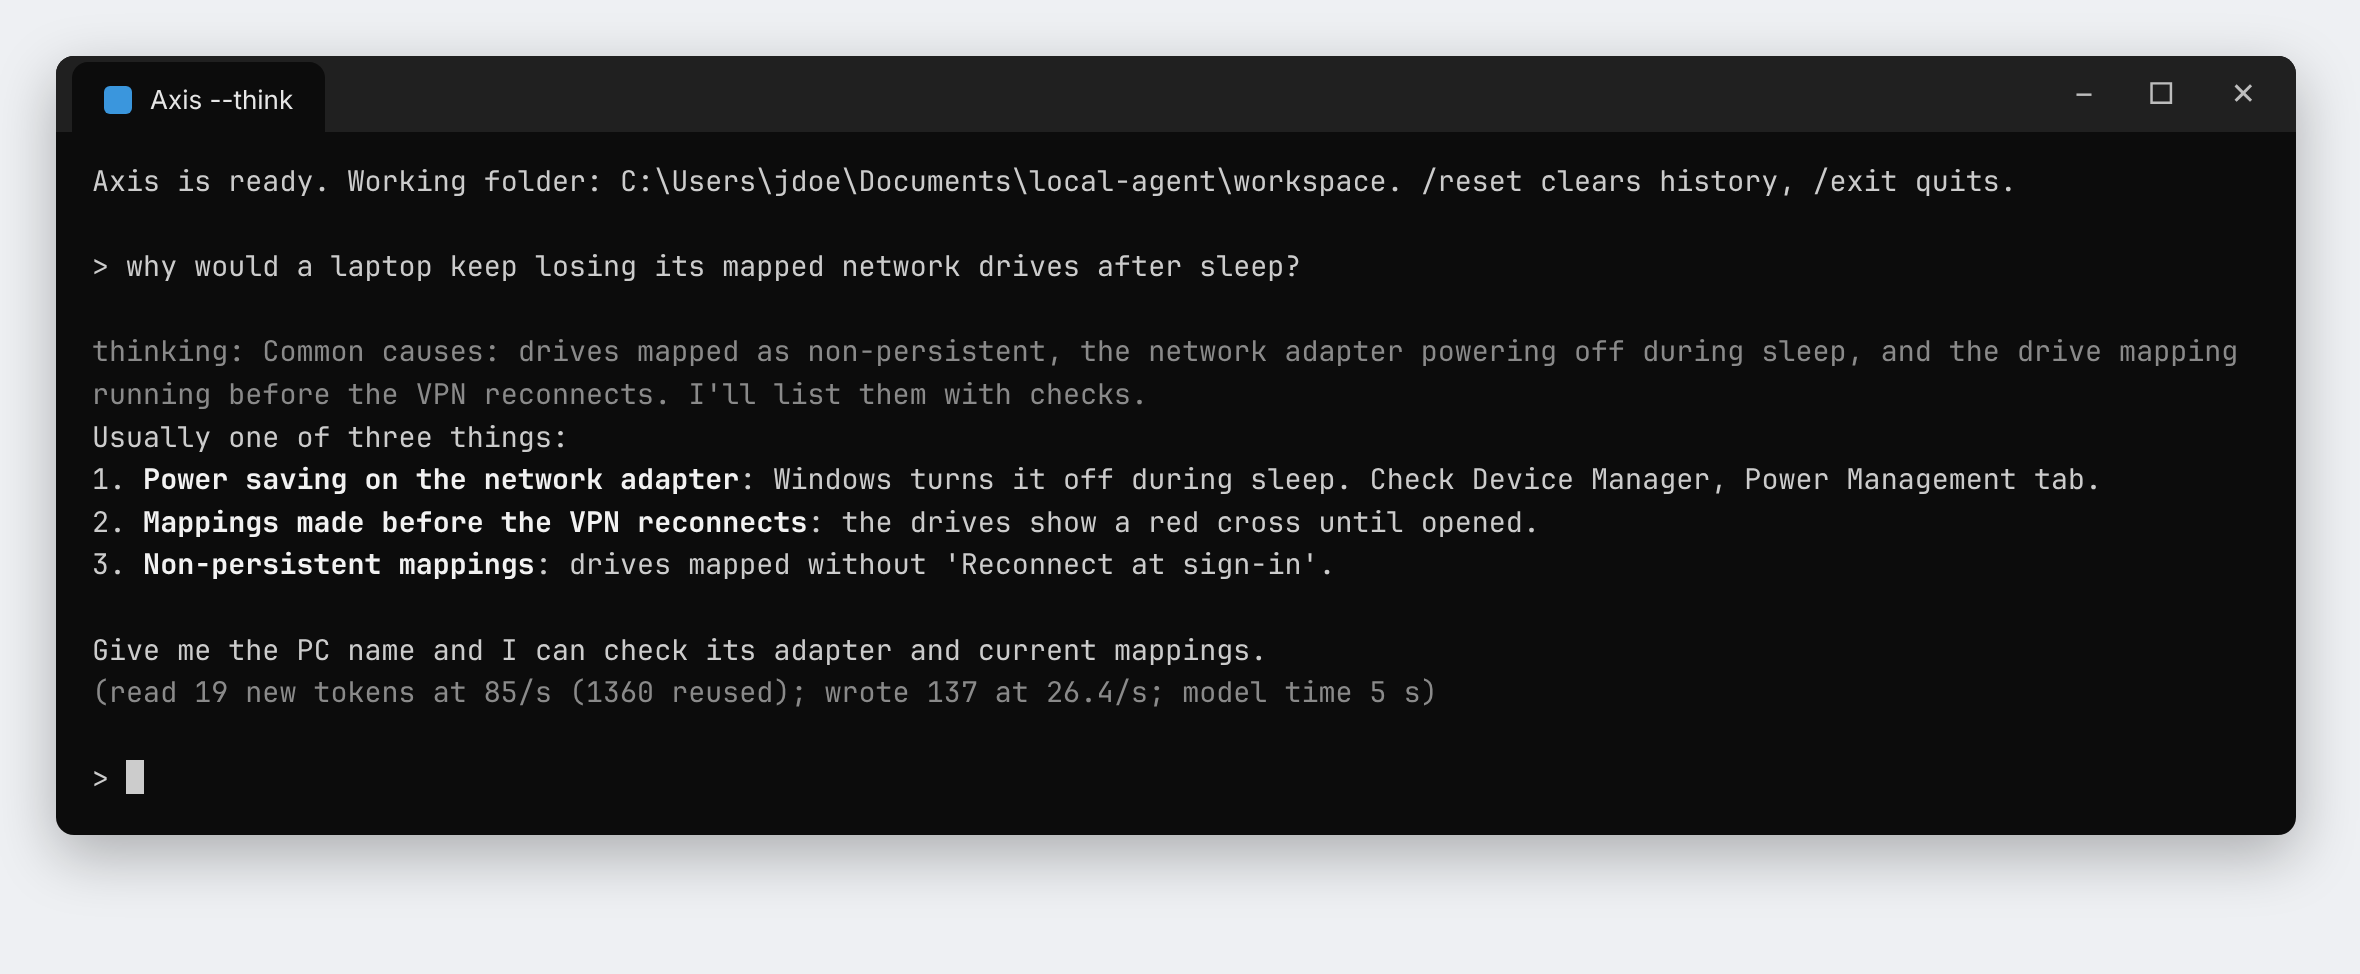
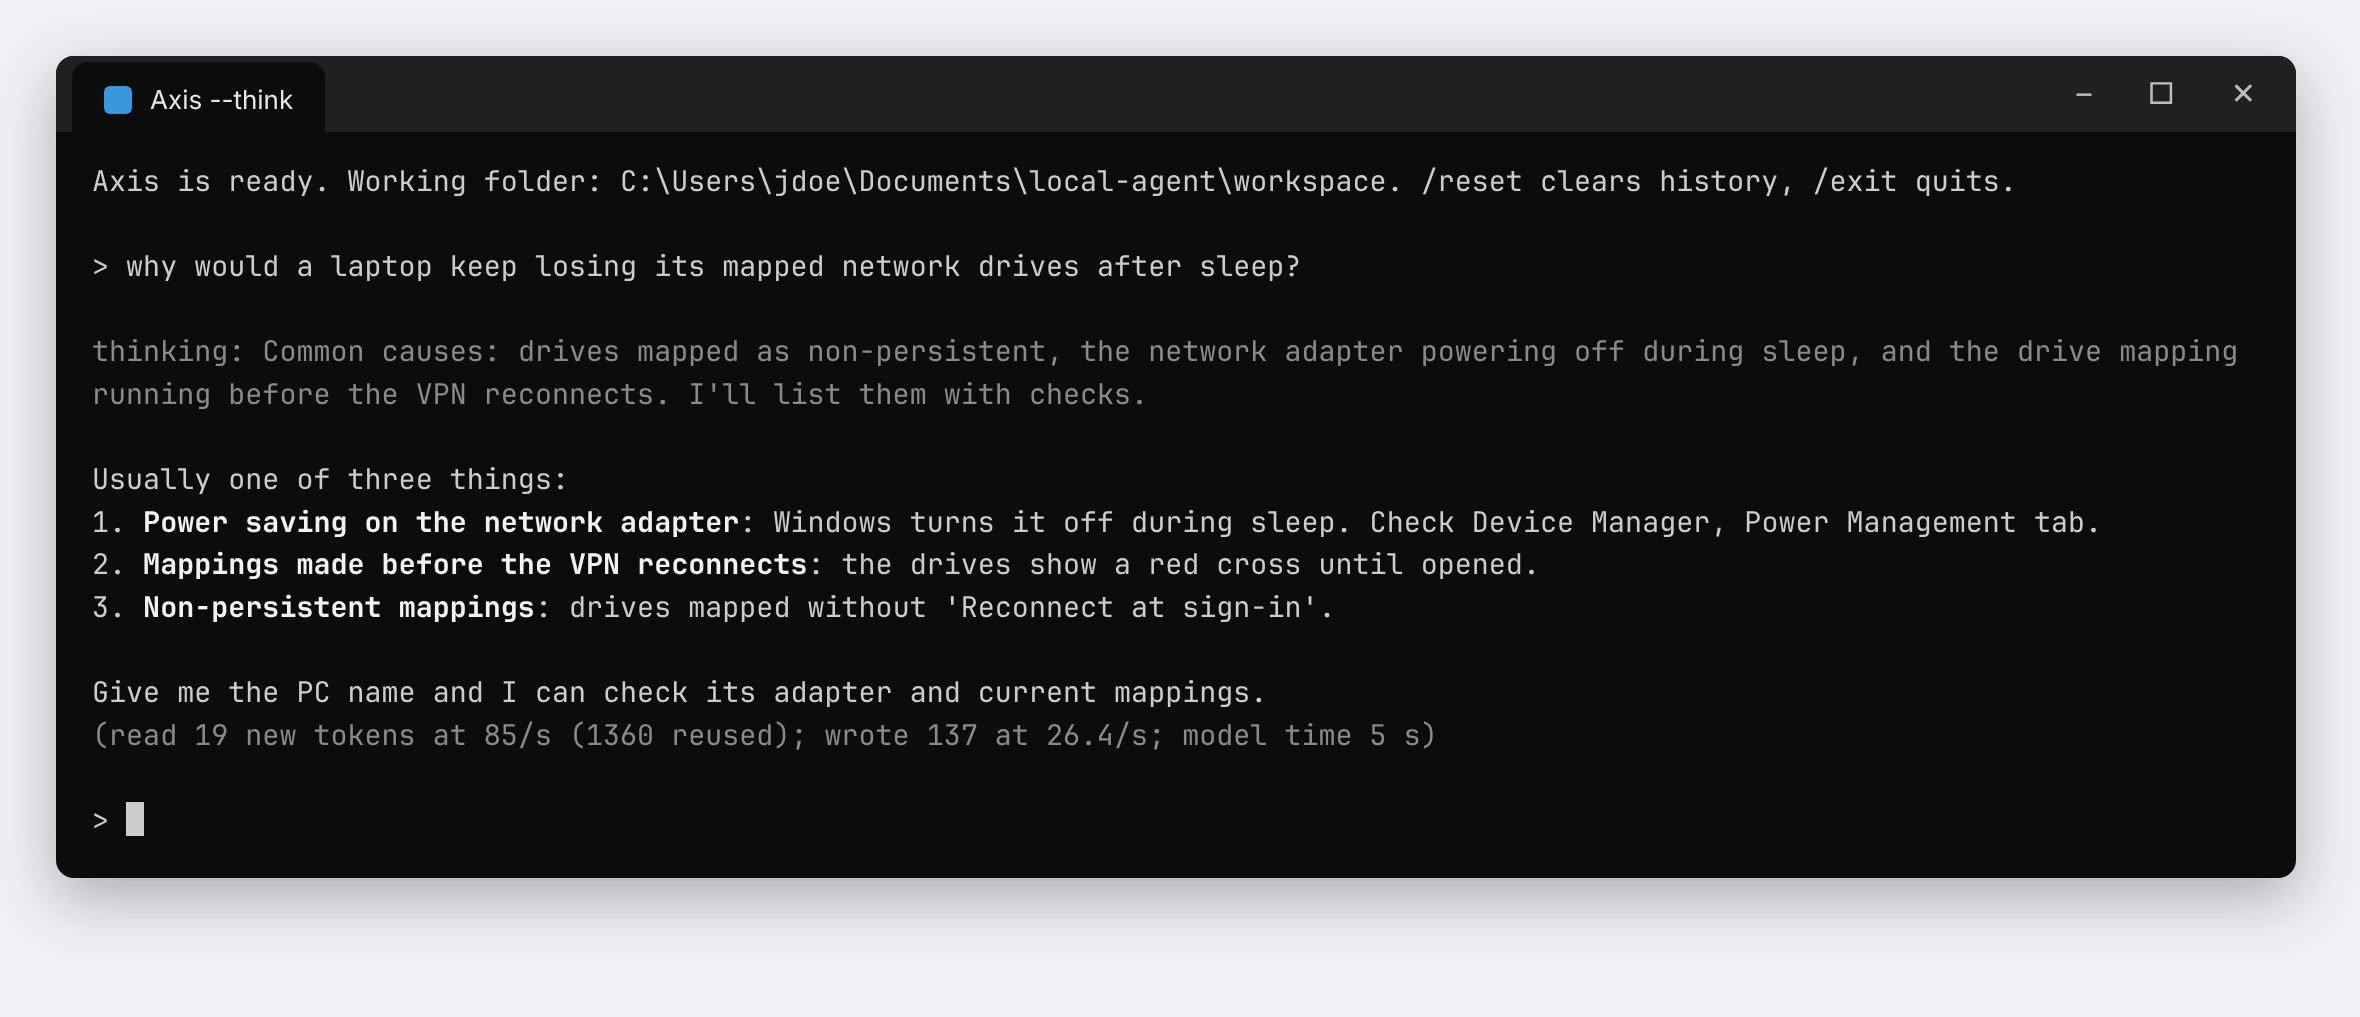
Add K2-Horizon-MoVA-36B-A4B; always show thinking for models that reason
K2-Horizon-MoVA scores 58.6 on Terminal-Bench 2.1 against 44.9 for
Qwen3.6-35B-A3B in the same table, and makes far fewer answers up. It
reasons before every answer, so models.json can now mark a model
"think": true: start.py then starts llama-server with thinking on and
passes --think, the model's ctx (16384) and sampling (1.0 / 0.95).

The reasoning streams in grey with a blank line before the answer and
before each step after tool output. With thinking on, history keeps
more room free for the reasoning, and a reply cut off by the context
says so instead of ending silently.

The mirror workflow publishes the official IFM Q4_K_M in 12 parts; the
part checksums go into models.json once it is out.

Claude-Session: https://claude.ai/code/session_0142kpP29CUPz4s2c9Fg2Q1B

diff --git a/agent/agent.py b/agent/agent.py
@@ -115,7 +115,7 @@ MAX_ALWAYS = 2000           # chars of ALWAYS.md put in the prompt
 
 
 class Agent:
-    def __init__(self, base_url, model, workdir, auto_approve, think, ctx=8192, notes=None):
+    def __init__(self, base_url, model, workdir, auto_approve, think, ctx=8192, notes=None, sampling=None):
         self.base_url = base_url.rstrip("/")
         self.notes_dir = os.path.realpath(notes or os.path.join(os.path.dirname(os.path.abspath(__file__)), "notes"))
         os.makedirs(self.notes_dir, exist_ok=True)
@@ -123,8 +123,9 @@ class Agent:
         self.workdir = os.path.realpath(workdir)
         self.auto_approve = auto_approve
         self.think = think
-        # ~3.5 chars per token, leaving room for tool schemas and the reply.
-        self.history_budget = int(ctx * 2.5)
+        self.sampling = sampling  # the model's recommended temperature and top_p, if it has them
+        # ~3.5 chars per token, leaving room for tool schemas and the reply (and the reasoning before it).
+        self.history_budget = int(ctx * (1.5 if think else 2.5))
         # The server is local; never route it through a system proxy.
         self.http = urllib.request.build_opener(urllib.request.ProxyHandler({}))
         self.stats = {}
@@ -205,7 +206,7 @@ class Agent:
 
     def chat(self):
         # Thinking mode uses Qwen's recommended sampling; otherwise stay close to the evidence.
-        sampling = {"temperature": 0.6, "top_p": 0.95} if self.think else {"temperature": 0.3, "top_p": 0.9}
+        sampling = self.sampling or ({"temperature": 0.6, "top_p": 0.95} if self.think else {"temperature": 0.3, "top_p": 0.9})
         body = dict({"model": self.model, "messages": self.messages, "tools": TOOLS, "top_k": 20}, **sampling)
         if not self.think:
             body["chat_template_kwargs"] = {"enable_thinking": False}
@@ -219,7 +220,8 @@ class Agent:
                 if "text/event-stream" not in (resp.headers.get("Content-Type") or ""):
                     data = json.load(resp)  # server ignored "stream"
                     self.add_timings(data.get("timings"))
-                    return dict(data["choices"][0]["message"], shown=False)
+                    choice = data["choices"][0]
+                    return dict(choice["message"], shown=False, finish=choice.get("finish_reason"))
                 return self.read_stream(resp)
         except urllib.error.HTTPError as e:
             raise RuntimeError("server returned %s: %s" % (e.code, e.read().decode("utf-8", "replace")[:500]))
@@ -239,6 +241,8 @@ class Agent:
         live = LiveText(self.stream_lead)
         calls = {}
         reasoning_open = False
+        held = ""  # whitespace at the end of the reasoning so far, printed only if more follows
+        finish = None
         for raw in resp:
             line = raw.decode("utf-8", "replace").strip()
             if not line.startswith("data:"):
@@ -251,14 +255,23 @@ class Agent:
                 self.add_timings(chunk["timings"])
             for choice in chunk.get("choices") or []:
                 delta = choice.get("delta") or {}
-                if delta.get("reasoning_content"):
+                finish = choice.get("finish_reason") or finish
+                thought = delta.get("reasoning_content")
+                if thought:
                     if not reasoning_open:
-                        print(dim("thinking: "), end="")
-                        reasoning_open = True
-                    print(dim(delta["reasoning_content"]), end="", flush=True)
+                        thought = thought.lstrip()
+                        if thought:
+                            print(self.stream_lead + dim("thinking: "), end="")
+                            reasoning_open = True
+                    body = thought.rstrip()
+                    if body:
+                        print(dim(held + body), end="", flush=True)
+                        held = ""
+                    held += thought[len(body):]
                 elif reasoning_open and (delta.get("content") or delta.get("tool_calls")):
                     print(flush=True)
-                    reasoning_open = False
+                    reasoning_open, held = False, ""
+                    live.lead = "\n"  # a blank line between the reasoning and the answer
                 if delta.get("content"):
                     live.feed(delta["content"])
                 for tc in delta.get("tool_calls") or []:
@@ -271,7 +284,7 @@ class Agent:
         if reasoning_open:
             print(flush=True)
         live.finish()
-        message = {"role": "assistant", "content": live.text, "shown": live.shown > 0}
+        message = {"role": "assistant", "content": live.text, "shown": live.shown > 0, "finish": finish}
         if calls:
             message["tool_calls"] = [calls[i] for i in sorted(calls)]
         return message
@@ -306,6 +319,9 @@ class Agent:
                                   **({"tool_calls": calls} if calls else {})})
             if not calls:
                 self.answer_shown = msg.get("shown", False)
+                if msg.get("finish") == "length":
+                    note = "(The reply was cut off: it filled the context. Type /reset, or start Axis with a larger --ctx.)"
+                    print(dim(note))
                 return content
             if content and not msg.get("shown"):
                 print(dim(content))
@@ -704,13 +720,19 @@ def main():
     p.add_argument("--ctx", type=int, default=8192, help="context size the server was started with (-c)")
     p.add_argument("--think", action="store_true", help="enable the model's thinking mode (slower; shows its reasoning)")
     p.add_argument("--notes", help="notes folder (default: the notes folder next to agent.py)")
+    p.add_argument("--temperature", type=float, help="sampling temperature (default: 0.3, or 0.6 with --think)")
+    p.add_argument("--top-p", type=float, help="nucleus sampling (default: 0.9, or 0.95 with --think)")
     a = p.parse_args()
 
-    agent = Agent(a.url, a.model, a.workdir, a.yes, a.think, a.ctx, a.notes)
+    sampling = None
+    if a.temperature is not None or a.top_p is not None:
+        sampling = {"temperature": 0.6 if a.temperature is None else a.temperature,
+                    "top_p": 0.95 if a.top_p is None else a.top_p}
+    agent = Agent(a.url, a.model, a.workdir, a.yes, a.think, a.ctx, a.notes, sampling)
     try:
         if a.task:
             answer = agent.run(" ".join(a.task))
-            if not agent.answer_shown:
+            if not agent.answer_shown and answer:
                 print(render_bold(answer, close=True)[0])
             if agent.speed():
                 print(dim(agent.speed()))
@@ -728,7 +750,7 @@ def main():
                 try:
                     print()
                     answer = agent.run(task)
-                    if not agent.answer_shown:
+                    if not agent.answer_shown and answer:
                         print(render_bold(answer, close=True)[0])
                     if agent.speed():
                         print(dim(agent.speed()))

diff --git a/agent/start.py b/agent/start.py
@@ -287,7 +287,7 @@ def main():
     p = argparse.ArgumentParser(description="Start llama-server and Axis.")
     p.add_argument("--workdir", default=os.path.join(HERE, "workspace"),
                    help="folder the agent works in (default: the workspace folder here)")
-    p.add_argument("--ctx", type=int, default=8192, help="context size in tokens")
+    p.add_argument("--ctx", type=int, help="context size in tokens (default: 8192, or the model's own setting)")
     p.add_argument("--model", choices=list(MODELS), help="which model to use (default: ask when several are present)")
     g = p.add_mutually_exclusive_group()
     g.add_argument("--cpu", action="store_true", help="always run on the processor")
@@ -295,7 +295,17 @@ def main():
     a, agent_args = p.parse_known_args()
 
     key, model = prepare_model(a.model)
+    m = MODELS[key]
     log("Model: %s" % os.path.basename(model))
+    ctx = a.ctx or m.get("ctx") or 8192
+    if m.get("think") and "--think" not in agent_args:
+        agent_args.append("--think")  # this model always reasons first
+    think = "--think" in agent_args
+    if think:
+        log("Thinking: on. The model's reasoning is shown in grey before each answer.")
+    for opt, field in (("--temperature", "temperature"), ("--top-p", "top_p")):
+        if field in m and opt not in agent_args:
+            agent_args += [opt, str(m[field])]
     os.makedirs(a.workdir, exist_ok=True)
 
     proc = None
@@ -313,7 +323,7 @@ def main():
                 continue
             where = "graphics card + processor" if build == "vulkan" else "processor"
             log("Starting llama-server (%s), loading the model" % where)
-            proc = start_server(exe, model, a.ctx, build == "vulkan", think="--think" in agent_args)
+            proc = start_server(exe, model, ctx, build == "vulkan", think=think)
             if proc:
                 break
             if build == "vulkan":
@@ -324,7 +334,7 @@ def main():
     try:
         log()
         subprocess.call([sys.executable, os.path.join(HERE, "agent.py"),
-                         "--workdir", a.workdir, "--ctx", str(a.ctx)] + agent_args)
+                         "--workdir", a.workdir, "--ctx", str(ctx)] + agent_args)
     except KeyboardInterrupt:
         pass
     finally:

diff --git a/docs/GUIDE.md b/docs/GUIDE.md
@@ -59,6 +59,7 @@ If you've downloaded more than one model, Axis asks which one to use. Press Ente
 | Key | Model | Download | Notes |
 | --- | --- | --- | --- |
 | `35b` | Qwen3.6-35B-A3B | [12 parts, 22.1 GB](https://github.com/AOSPAndroid/Axis/releases/tag/qwen3.6-35b-a3b-q4-k-m) | **Recommended.** Fast and good at terminal tasks. Only about 3B of its 35B parameters work on each word, so it's fast even without a graphics card. |
+| `k2` | K2-Horizon-MoVA-36B-A4B | [12 parts, 22.4 GB](https://github.com/AOSPAndroid/Axis/releases/tag/k2-horizon-mova-36b-a4b-q4-k-m) | The best at terminal tasks and the least likely to make answers up. It always thinks before it answers, and you see its reasoning in grey, so answers take longer to start. About 4B of its 36B parameters work on each word. |
 | `27b` | Qwen3.8-27B | [9 parts, 16.5 GB](https://github.com/AOSPAndroid/Axis/releases/tag/qwen3.8-27b-q4-k-m) | The most accurate, but slow: roughly 2 words a second on a processor, 4–6 with an 8 GB graphics card. |
 | `gemma` | Gemma 4 26B-A4B | [8 parts, 14.4 GB](https://github.com/AOSPAndroid/Axis/releases/tag/gemma-4-26b-a4b-qat-q4-0) | Google's model. Fast. |
 | `9b-distill` | Qwen3.8-9B distill | [4 parts, 5.8 GB](https://github.com/AOSPAndroid/Axis/releases/tag/qwen3.8-9b-q4-k-m) | Small; fits entirely on an 8 GB graphics card. Makes more mistakes. |
@@ -74,7 +75,7 @@ python start.py --model 35b
 **Which model on which PC:**
 
 - **PC without a usable graphics card:** Qwen3.6-35B-A3B. It's faster there than the 9B models, as well as smarter.
-- **PC with an 8 GB graphics card:** Qwen3.6-35B-A3B for everyday use; Qwen3.8-27B for hard jobs.
+- **PC with an 8 GB graphics card:** Qwen3.6-35B-A3B for everyday use; K2-Horizon-MoVA for hard jobs.
 
 ## Everyday use
 
@@ -141,6 +142,8 @@ For tricky problems, start Axis with thinking on. The model then reasons before 
 
 It's slower, so it's off by default.
 
+**K2-Horizon-MoVA always thinks.** Axis turns thinking on for it automatically and shows the reasoning in grey before each answer, so you can follow what it's checking and why. It also gets a larger context (16384) so the reasoning fits.
+
 ## Options
 
 Add options after `"Start Agent.bat"` or `python start.py` in a terminal opened in the `local-agent` folder.
@@ -151,7 +154,7 @@ Add options after `"Start Agent.bat"` or `python start.py` in a terminal opened 
 | `--think` | Turn on reasoning, shown in grey. Slower. |
 | `--cpu` | Use only the processor, even if a graphics card is found. |
 | `--gpu` | Try the graphics card even if it reports less than 4 GB. |
-| `--ctx 4096` | Use a smaller context to save memory. The default is 8192. |
+| `--ctx 4096` | Use a smaller context to save memory. The default is 8192, or 16384 for K2-Horizon-MoVA. |
 | `--workdir FOLDER` | The folder Axis may read and write files in. Default: `workspace` next to `start.py`. |
 | `--notes FOLDER` | Use a different notes folder. |
 | `--yes` | Approve every change without asking. Not recommended on work PCs. |
@@ -165,7 +168,8 @@ Add options after `"Start Agent.bat"` or `python start.py` in a terminal opened 
 | "The model is not ready yet" | One or more parts are missing or still downloading. Axis lists them. Download them and start again. |
 | It stops while loading the model | Look at `server.log` in the `local-agent` folder. For memory errors, try `--ctx 4096`, or a smaller model. |
 | Answers are slow | Check the speed line. If "wrote" is under about 8 per second, use Qwen3.6-35B-A3B. On a PC with a weak graphics card, compare with `--cpu`. |
-| The answer is wrong or made up | Ask it to check with a command, add the facts to your notes, or use Qwen3.8-27B or `--think` for hard questions. |
+| The answer is wrong or made up | Ask it to check with a command, add the facts to your notes, or use K2-Horizon-MoVA or `--think` for hard questions. |
+| "The reply was cut off" | The model's reasoning filled the context. Type `/reset`, or start Axis with a larger `--ctx`, for example `--ctx 32768`. |
 
 ## Updating
 

diff --git a/agent/README.md b/agent/README.md
@@ -57,13 +57,14 @@ python agent.py --workdir C:\path\to\project "list the .ps1 files and say what e
 | `--workdir` | current folder | The only folder the file tools may use |
 | `--ctx` | `8192` | Must match the server's `-c`; older history is dropped to fit |
 | `--yes` | off | Approve writes and commands without asking |
-| `--think` | off | Turn on Qwen's thinking mode: better on hard tasks, slower, uses more context |
+| `--think` | off | Turn on the model's thinking mode: better on hard tasks, slower, uses more context |
+| `--temperature`, `--top-p` | 0.3 and 0.9; 0.6 and 0.95 with `--think` | Sampling. `start.py` passes the model's own values from `models.json` when it has them |
 
 ## Your notes
 
 Put runbooks, procedures, known fixes and names as `.md` or `.txt` files in the `notes` folder next to `agent.py` (or pass `--notes DIR`). The agent sees the list of files, searches them with `search_notes` before guessing, and opens one with `read_note`. `notes/ALWAYS.md` is loaded into every conversation, so keep it short. `notes/EXAMPLE.md` shows the format.
 
-`--think` turns on the model's reasoning and shows it, dimmed, before the answer. It's slower.
+`--think` turns on the model's reasoning and shows it, dimmed, before the answer. It's slower. In `models.json`, `"think": true` makes `start.py` always pass `--think` for that model (K2-Horizon-MoVA reasons before every answer), and `ctx`, `temperature` and `top_p` set its defaults.
 
 ## Notes
 

diff --git a/README.md b/README.md
@@ -35,7 +35,8 @@ The screenshots show the real Axis interface. The PC names, people and values in
 | Model | Size | Best for |
 | --- | --- | --- |
 | [Qwen3.6-35B-A3B](https://github.com/AOSPAndroid/Axis/releases/tag/qwen3.6-35b-a3b-q4-k-m) | 22.1 GB | Everyday use: fast and good at terminal tasks. Recommended. |
-| [Qwen3.8-27B](https://github.com/AOSPAndroid/Axis/releases/tag/qwen3.8-27b-q4-k-m) | 16.5 GB | Hard problems: the most accurate, but slow. |
+| [K2-Horizon-MoVA-36B-A4B](https://github.com/AOSPAndroid/Axis/releases/tag/k2-horizon-mova-36b-a4b-q4-k-m) | 22.4 GB | Hard problems: the best at terminal tasks. It thinks before every answer and shows its reasoning. |
+| [Qwen3.8-27B](https://github.com/AOSPAndroid/Axis/releases/tag/qwen3.8-27b-q4-k-m) | 16.5 GB | Accurate, but slow without a big graphics card. |
 | [Gemma 4 26B-A4B](https://github.com/AOSPAndroid/Axis/releases/tag/gemma-4-26b-a4b-qat-q4-0) | 14.4 GB | An alternative from Google. |
 
 The large models need 32 GB of RAM or more. A graphics card with 4 GB or more is used automatically. See the [guide](docs/GUIDE.md#choosing-a-model) for all models.
